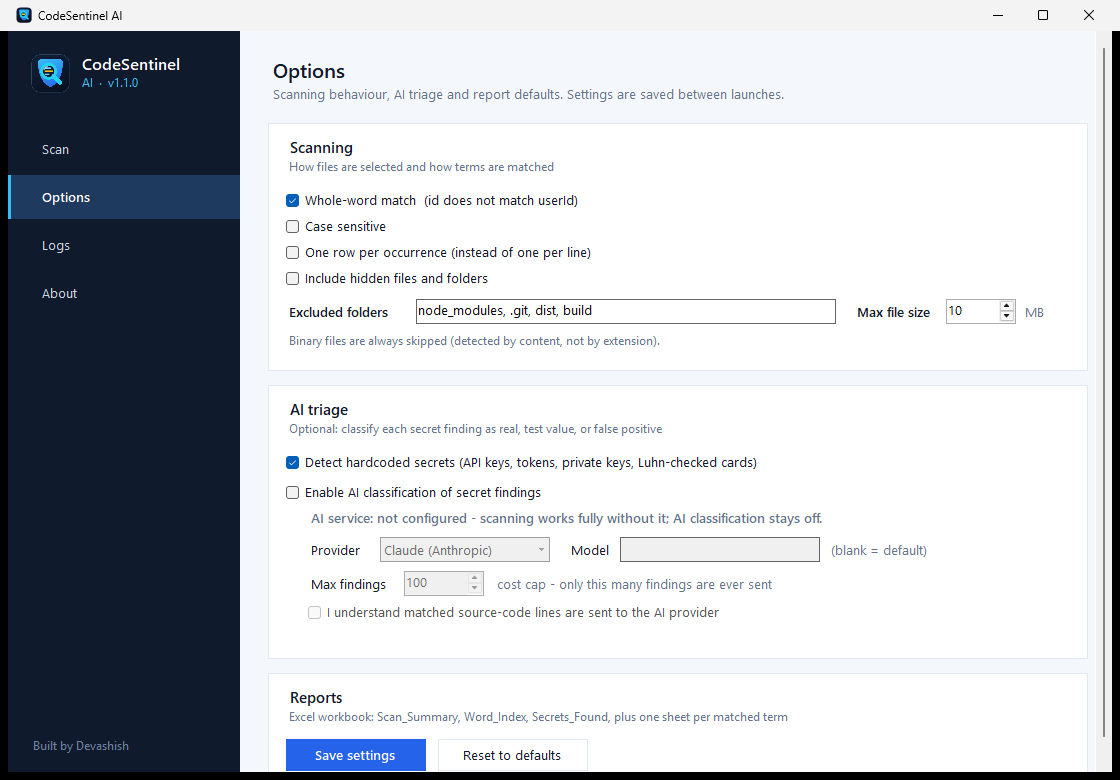
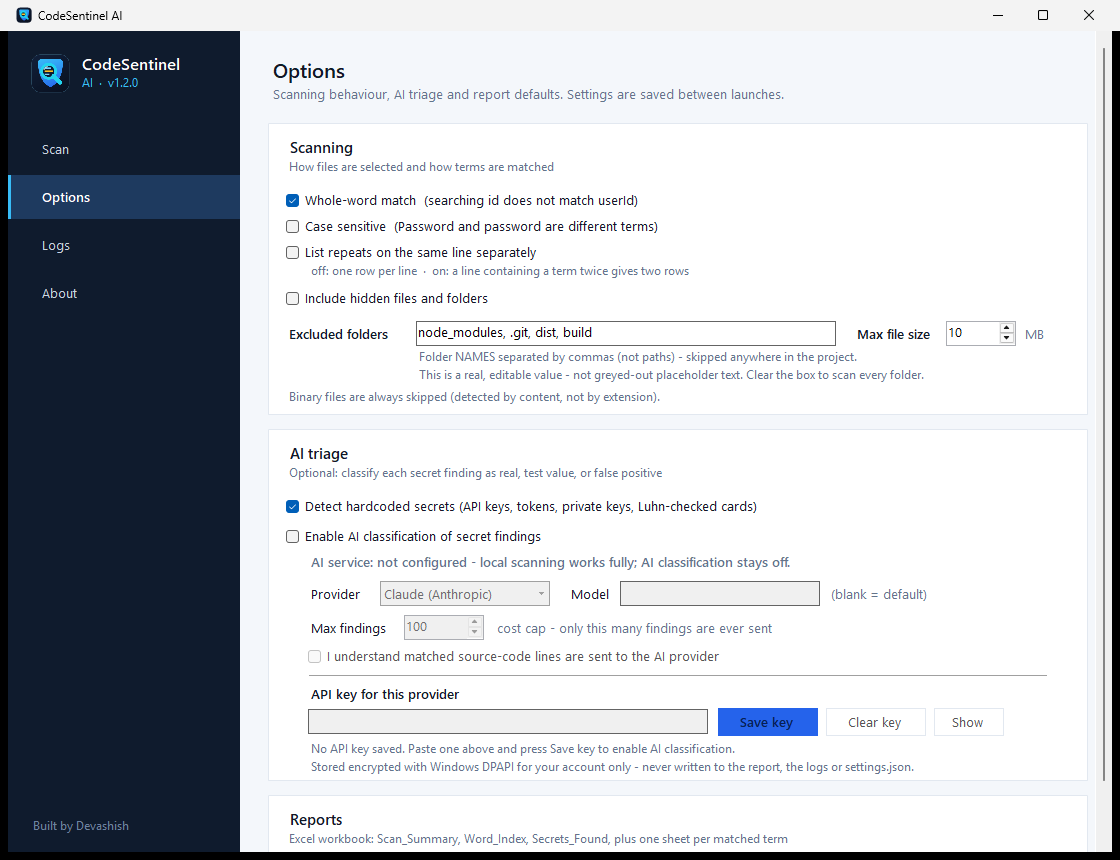
v1.2.0 - key management, bigger word list, clearer options

diff --git a/README.md b/README.md
@@ -11,7 +11,7 @@ and every hardcoded secret — file, line, and whether the hit is real code or a
 then writes a detailed Excel report.
 
 [![Download](https://img.shields.io/badge/Download-Windows%20Installer-2563eb?style=for-the-badge&logo=windows)](../../releases/latest)
-[![Version](https://img.shields.io/badge/version-1.1.0-38bdf8?style=for-the-badge)](../../releases/latest)
+[![Version](https://img.shields.io/badge/version-1.2.0-38bdf8?style=for-the-badge)](../../releases/latest)
 [![Platform](https://img.shields.io/badge/Windows-10%20%7C%2011-0078d4?style=for-the-badge)](../../releases/latest)
 
 **[⬇ Download the latest release](../../releases/latest)**
@@ -107,8 +107,8 @@ Matching, file selection, secret detection, AI triage and report defaults — wi
 AI classification labels each secret finding `real_secret`, `sanitized_or_test` or
 `false_positive` with a one-line reason, written into the report.
 
-**The app ships no API key and has no key-entry screen.** It uses a credential supplied by the
-environment of the machine it runs on; when none is present the app says plainly
+**The app ships no API key.** You supply your own: paste it into Options and press **Save key**, and it is stored encrypted with Windows DPAPI for your account only (never in plain text, never in the logs or the report, never on a command line). **Clear key** removes it at any time. A key can also come from the
+provider's environment variable instead; when neither is present the app says plainly
 *"AI service: not configured"* and **all local scanning continues to work**. Enabling it also
 requires ticking an explicit consent box, because matched source lines are sent to the provider.
 A max-findings cost cap is always applied.
@@ -126,7 +126,7 @@ Built with the ImportExcel engine — **Microsoft Excel is not required to creat
 
 ## Install
 
-1. **[Download `CodeSentinelAI-Setup-1.1.0.exe`](../../releases/latest)**
+1. **[Download `CodeSentinelAI-Setup-1.2.0.exe`](../../releases/latest)**
 2. Run it — installs for **your user only, no administrator rights**
 3. Pick the folder, choose shortcuts, press **Install**
 
